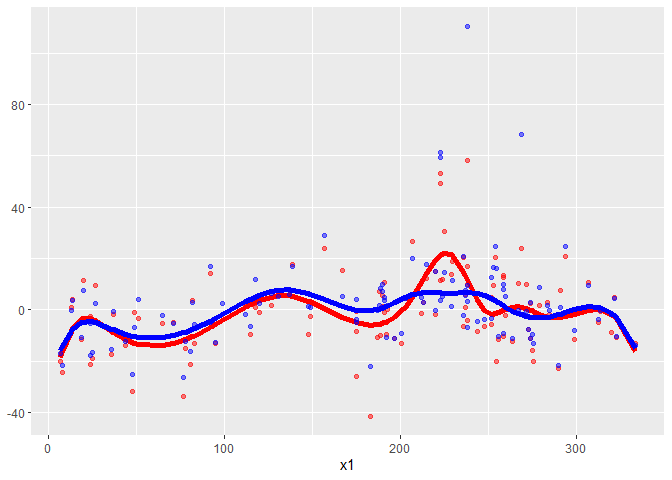
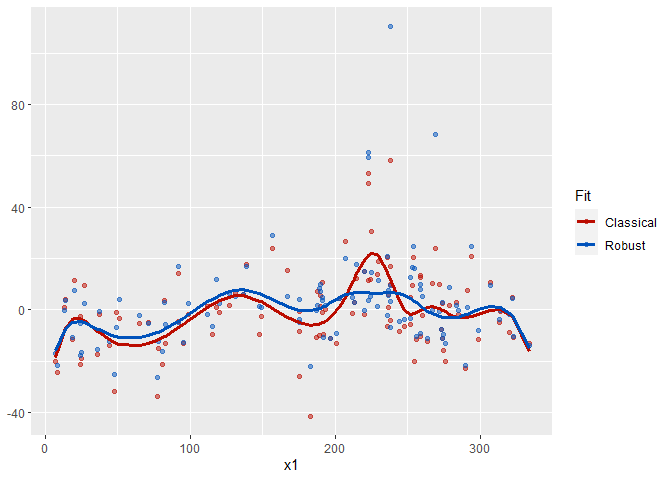
New plots using ggplot

diff --git a/README.md b/README.md
@@ -62,4 +62,20 @@ fit.rob <- plam.rob(y,Z,X,degree.spline=degree.spline)
 
 When no number of internal knots is specified, select.knots.cl or select.knots.rob, respectively, is used.
 
-The following three plots correspond to the classical (in red) and robust (in blue) fits for the additive functions with their respectively partial residuals. ![](README_files/figure-markdown_github/ggplot-1.png)![](README_files/figure-markdown_github/ggplot-2.png)![](README_files/figure-markdown_github/ggplot-3.png)
+The following three plots correspond to the classical (in red) and robust (in blue) fits for the additive functions with their respectively partial residuals.
+
+    ## [1] 222  10
+
+    ## 'data.frame':    222 obs. of  10 variables:
+    ##  $ x1  : num  190 118 149 313 299 99 19 256 290 274 ...
+    ##  $ x2  : num  7.4 8 12.6 11.5 8.6 13.8 20.1 9.7 9.2 10.9 ...
+    ##  $ x3  : num  67 72 74 62 65 59 61 69 66 68 ...
+    ##  $ re.1: num  1.462 0.827 -2.498 -5.139 -11.741 ...
+    ##  $ re.2: num  12.15 -3.86 -21.69 -13.82 -11.35 ...
+    ##  $ re.3: num  -8.2 -14.4 -24.1 -22.6 -23.2 ...
+    ##  $ g1  : num  -5.358 2.9541 3.0449 0.0282 -1.696 ...
+    ##  $ g2  : num  5.33 -1.74 -16.15 -8.66 -1.31 ...
+    ##  $ g3  : num  -15 -12.3 -18.6 -17.4 -13.2 ...
+    ##  $ Fit : Factor w/ 2 levels "Classical","Robust": 1 1 1 1 1 1 1 1 1 1 ...
+
+![](README_files/figure-markdown_github/ggplot-1.png)![](README_files/figure-markdown_github/ggplot-2.png)![](README_files/figure-markdown_github/ggplot-3.png)
